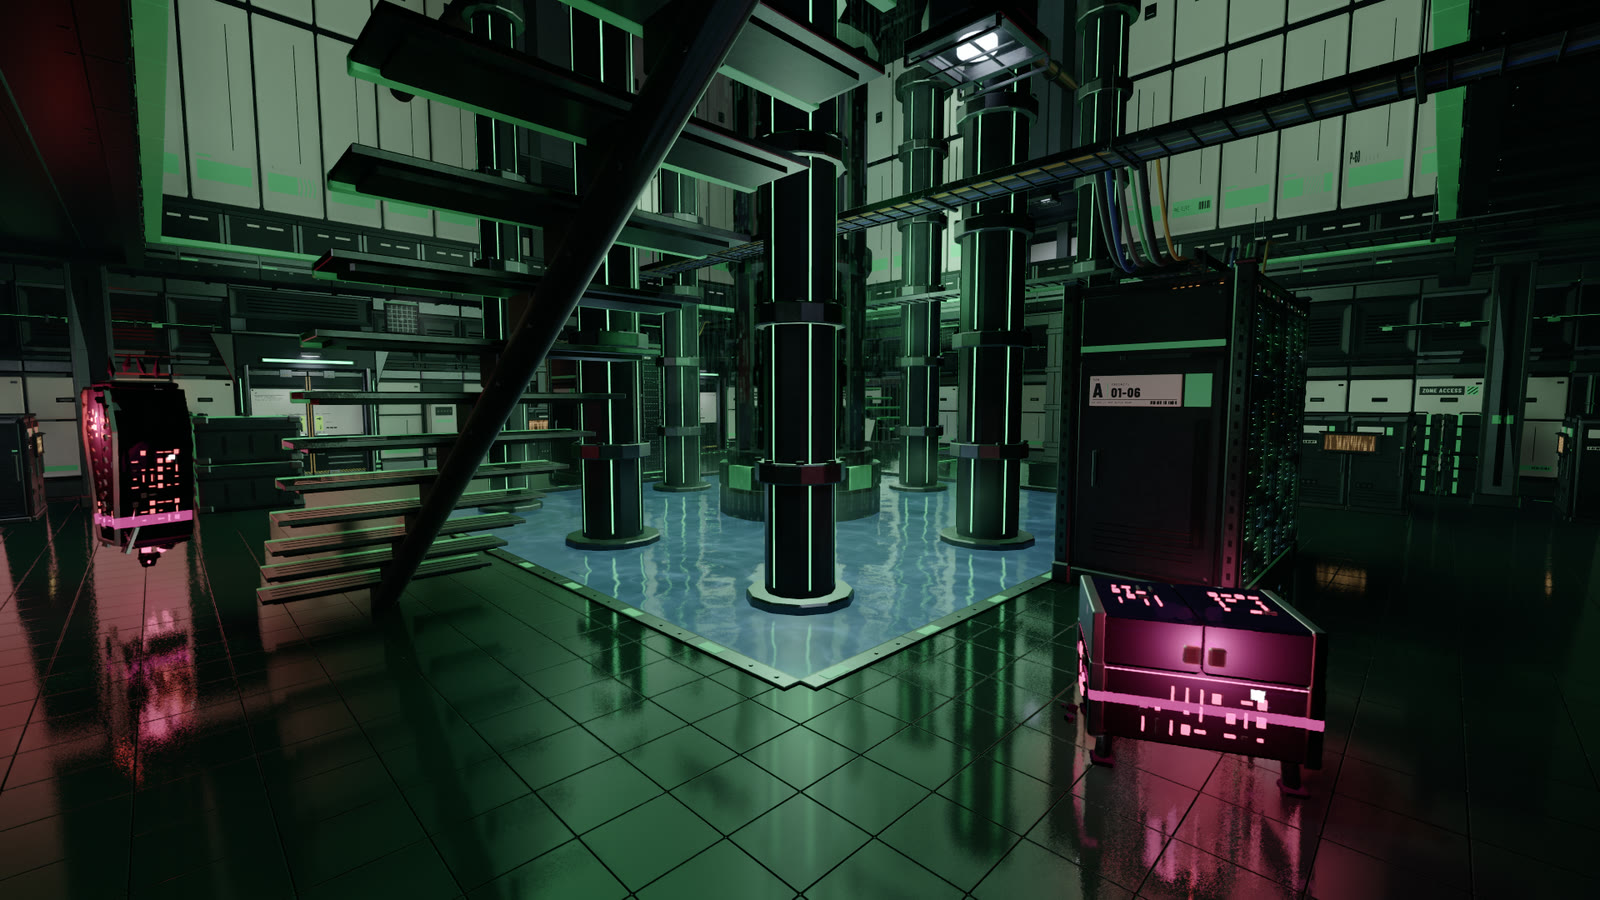
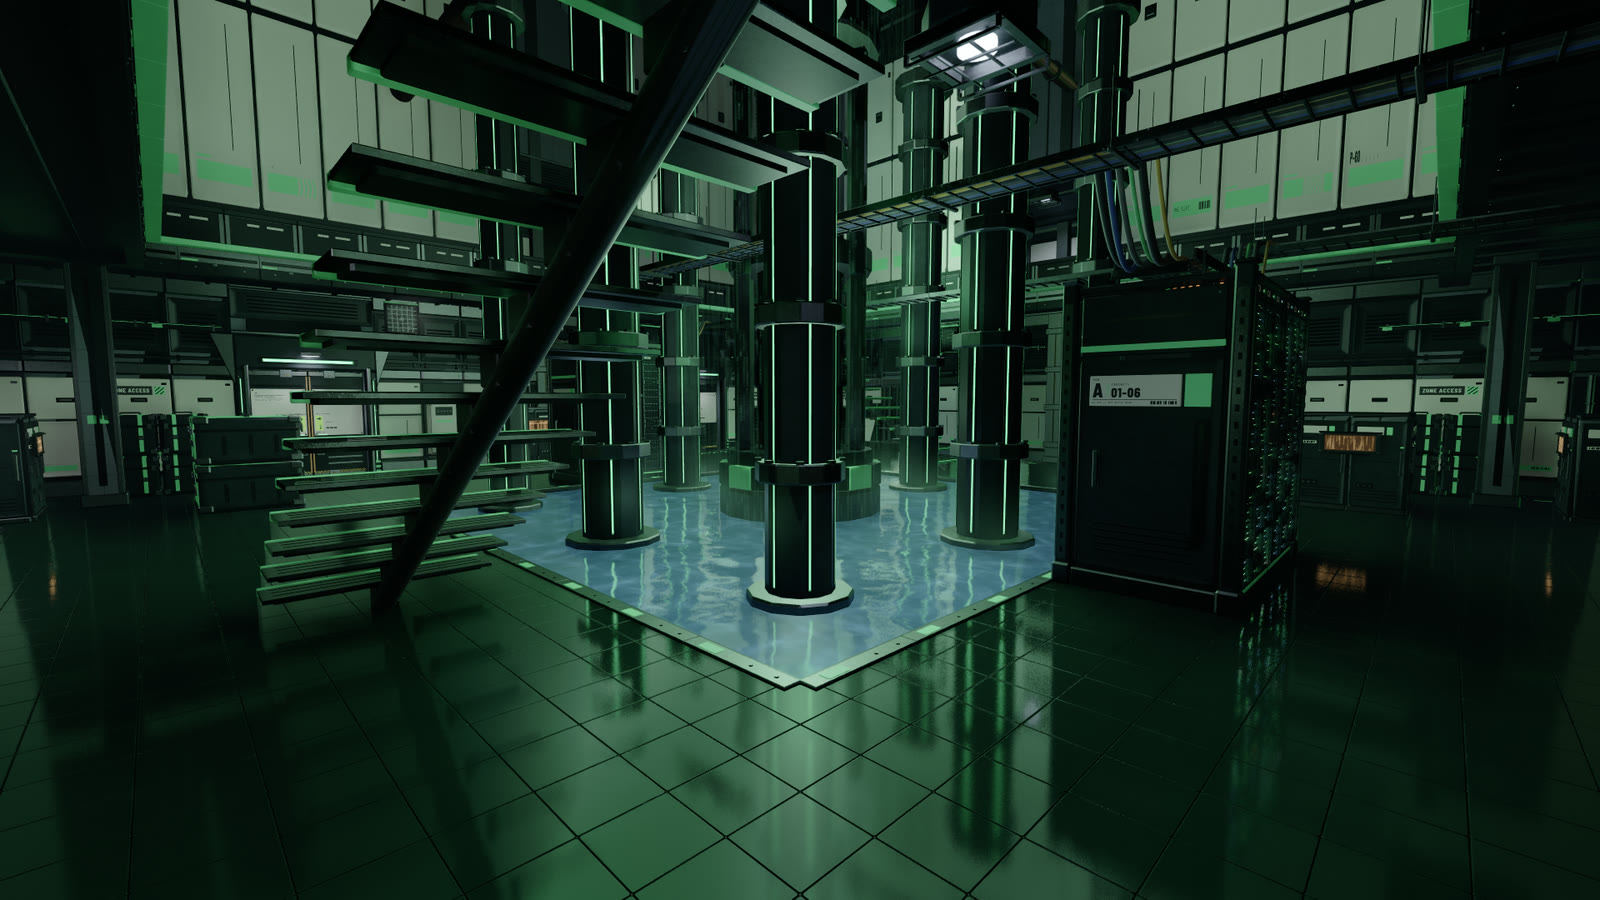
README: cascades column taken after a look round, so the world cache knows the room

diff --git a/README.md b/README.md
@@ -14,7 +14,10 @@ Five rooms of `h4ck`, a Bevy game this was written for and is tested in. Each
 is lit by a few lamps and many small glowing strips, panels and pools. Left:
 the game's rasterized lighting with a flat fill light standing in for bounced
 light. Middle: the same view with the fill replaced by radiance cascades
-(screen space and world cache, DLAA at 1080p). Third column: the same view
+(screen space and world cache, DLAA at 1080p), after the camera has looked
+all the way round from where it stands, as a player would have: placed there
+and never turned, it knows nothing of the room behind it, and those pipes are
+black. Third column: the same view
 ray traced, by Bevy Solari denoised by DLSS Ray Reconstruction, which carries
 the lamps' direct light as well as the bounce. It is given the same lamps and
 glows as the cascades and a uniform fill, set by eye so the rooms come out
@@ -30,8 +33,8 @@ a measured reference (for that see the `cornell` example below).
 | ![Vault, cascades off](docs/vault_off.jpg) | ![Vault, cascades on](docs/vault_on.jpg) | ![The same view, ray traced](docs/vault_rt.jpg) |
 
 In the pump room the lit coolant pool is what lights the floor, the pipes and
-the ceiling over it, and the pipe in the foreground, which no lamp reaches, is
-dark on the side turned away from the pool. In the room of cooling columns the
+the ceiling over it; the side of the foreground pipes turned to the camera is
+lit by the room behind the camera, which only the world cache knows. In the room of cooling columns the
 pink screens of the two machines tint the floor beside them. In the vault the
 shaft of lamp light bounces off the crates into the floor around them. None of
 these glows is a light source as far as the engine knows: they are emissive
